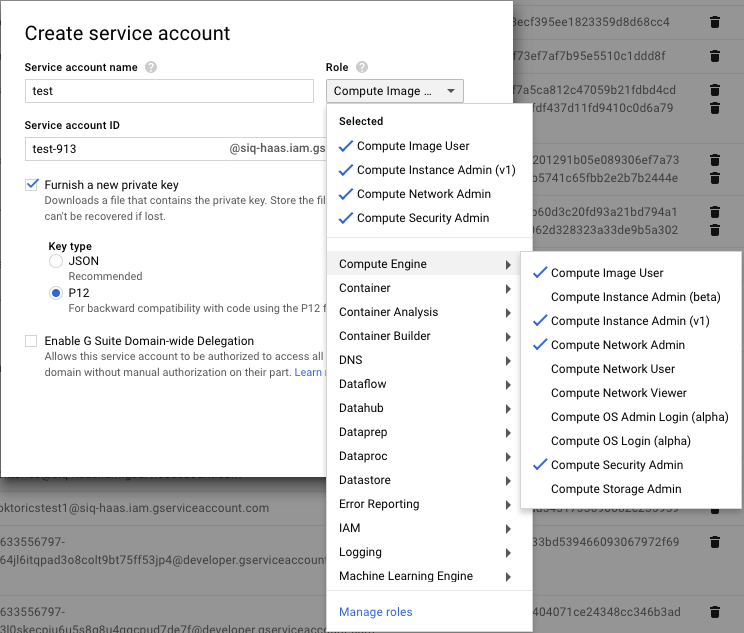
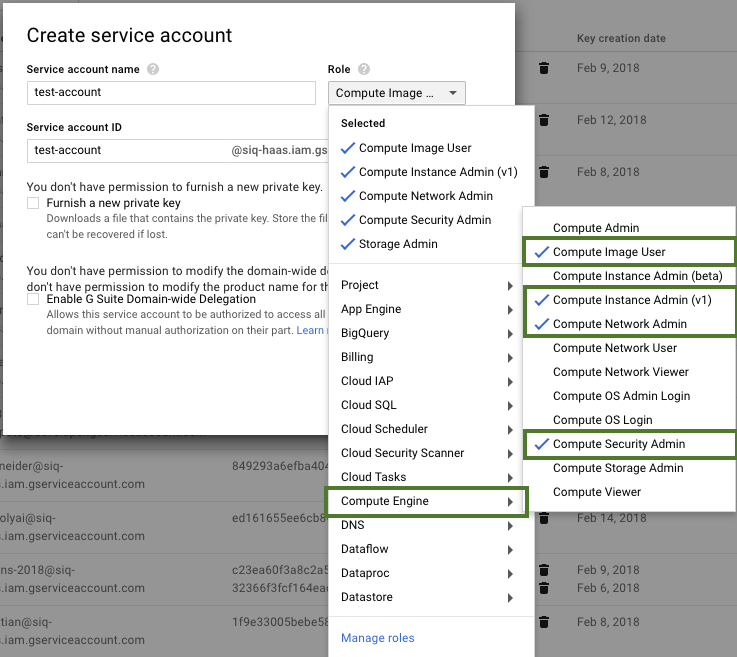
Update GCP roles BUG-96262

diff --git a/docs/gcp-launch.md b/docs/gcp-launch.md
@@ -17,17 +17,19 @@ Once you log in to your GCP account, you must either create a project or use an 
 
 In order to launch clusters on GCP via Cloudbreak, you must have a Service Account that Cloudbreak can use to create resources. In addition, you must also have a P12 key associated with the account. If you need to create these, refer to [GCP documentation](https://cloud.google.com/storage/docs/authentication#service_accounts) on how to create a service account and generate a P12 key. 
 
-Once you have the service account that you want to use for Cloudbreak, make sure that your service account fulfills one of the following APIs are enabled for your service account:
+Once you have the service account that you want to use for Cloudbreak, make sure that your service account fulfills one of the following roles are enabled for your service account:
 
-* Compute Image User   
-* Compute Instance Admin (v1)  
-* Compute Network Admin  
-* Compute Security Admin  
-* Compute Storage Admin 
+* Compute Engine > Compute Image User   
+* Compute Engine > Compute Instance Admin (v1)  
+* Compute Engine > Compute Network Admin  
+* Compute Engine > Compute Security Admin  
+* Storage > Storage Admin 
     
-A user with an "Owner" role can assign roles or access rules to service accounts from **IAM & Admin** > **IAM**. For example:
+A user with an "Owner" role can assign roles to new and existing service accounts from **IAM & Admin** > **IAM**, as presented in the following screenshots: 
 
 <a href="../images/gcp-iam.png" target="_blank" title="click to enlarge"><img src="../images/gcp-iam.png" width="650" title="GCP Console"></a> 
+
+<a href="../images/gcp-iam2.png" target="_blank" title="click to enlarge"><img src="../images/gcp-iam2.png" width="650" title="GCP Console"></a> 
 
 **Related Links**  
 [Service Account Credentials](https://cloud.google.com/storage/docs/authentication#service_accounts) (External)  
